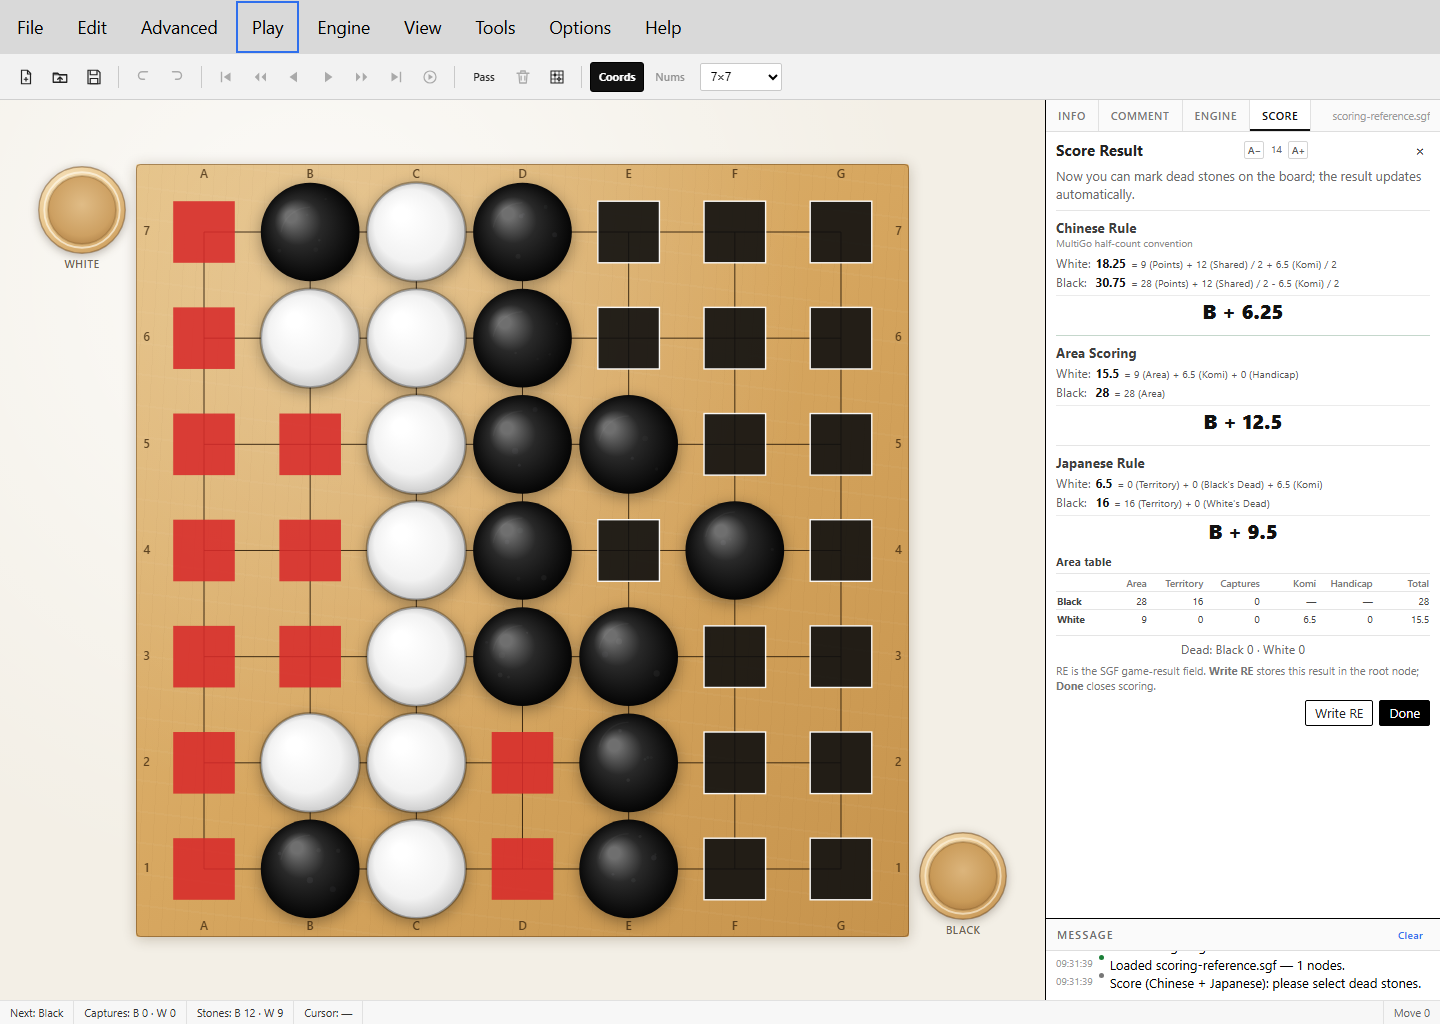
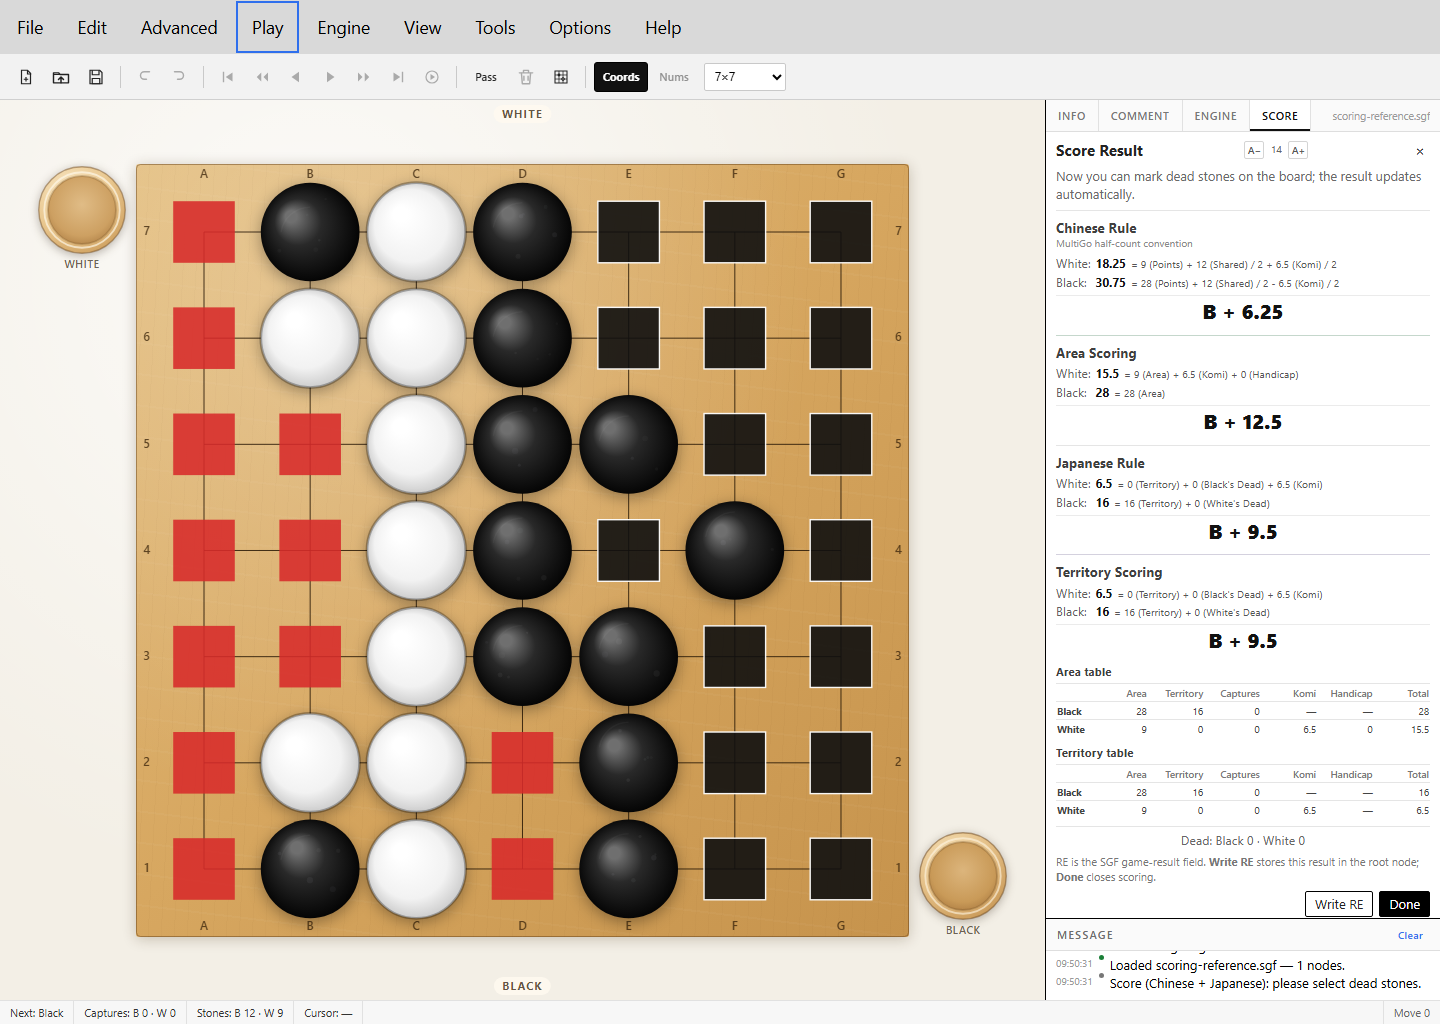
Add territory study views, default seating and dark bowls

diff --git a/src/renderer.js b/src/renderer.js
@@ -214,6 +214,13 @@
       blackFormula: $('#count-jp-black-formula'),
       result: $('#count-jp-result'),
     },
+    territory: {
+      whiteTotal: $('#count-territory-white-total'),
+      whiteFormula: $('#count-territory-white-formula'),
+      blackTotal: $('#count-territory-black-total'),
+      blackFormula: $('#count-territory-black-formula'),
+      result: $('#count-territory-result'),
+    },
   };
   const countTable = {
     blackArea: $('#count-table-black-area'),
@@ -227,6 +234,19 @@
     whiteHandicap: $('#count-table-white-handicap'),
     whiteTotal: $('#count-table-white-total'),
   };
+  const countTerritoryTable = {
+    blackArea: $('#count-territory-table-black-area'),
+    blackTerritory: $('#count-territory-table-black-territory'),
+    blackCaptures: $('#count-territory-table-black-captures'),
+    blackTotal: $('#count-territory-table-black-total'),
+    whiteArea: $('#count-territory-table-white-area'),
+    whiteTerritory: $('#count-territory-table-white-territory'),
+    whiteCaptures: $('#count-territory-table-white-captures'),
+    whiteKomi: $('#count-territory-table-white-komi'),
+    whiteTotal: $('#count-territory-table-white-total'),
+  };
+  const seatTop = $('#seat-top');
+  const seatBottom = $('#seat-bottom');
   const bowlBlack = $('#bowl-black');
   const bowlWhite = $('#bowl-white');
   const bowlBlackStones = $('#bowl-black-stones');
@@ -671,8 +691,9 @@
     'Now you can mark dead stones on the board; the result updates automatically.': '现在可以在棋盘上标记死子，结果会自动更新。',
     Japanese: '日本规则', Chinese: '中国规则',
     'Chinese Rule': '中国规则', 'Japanese Rule': '日本规则',
-    'Area Scoring': '面积计分', 'MultiGo half-count convention': 'MultiGo 半计分制',
-    'Area table': '面积表', Area: '面积', Total: '总计',
+    'Area Scoring': '面积计分', 'Territory Scoring': '目数计分',
+    'MultiGo half-count convention': 'MultiGo 半计分制',
+    'Area table': '面积表', 'Territory table': '目数表', Area: '面积', Total: '总计',
     'Black territory': '黑方领地', 'White territory': '白方领地',
     'Black prisoners': '黑方提子', 'White prisoners': '白方提子',
     'Black stones': '黑方棋子', 'White stones': '白方棋子',
@@ -861,9 +882,18 @@
     };
   }
 
+  function resetPlayerViewForNewGame() {
+    settings.boardRotation = 0;
+    settings.boardFlipH = false;
+    settings.boardFlipV = false;
+    settings.blackAtBottom = true;
+    saveSettings();
+  }
+
   function startGame(size, options = {}) {
     if (countState.active) exitCount();
     stopAutoPlay();
+    resetPlayerViewForNewGame();
     let width;
     let height;
     if (size && typeof size === 'object') {
@@ -1511,7 +1541,14 @@
     }
   }
 
+  function updateSeatLabels() {
+    const blackAtBottom = settings.blackAtBottom !== false;
+    if (seatBottom) seatBottom.textContent = (blackAtBottom ? t('Black') : t('White')).toUpperCase();
+    if (seatTop) seatTop.textContent = (blackAtBottom ? t('White') : t('Black')).toUpperCase();
+  }
+
   function updateBowls() {
+    updateSeatLabels();
     // Bowls are live during play (Japanese rules) and while counting; the
     // scoring card only adds dead stones to the prisoner totals.
     const rules = countState.active ? countState.rules : gameRules();
@@ -1621,6 +1658,16 @@
     if (countTable.whiteHandicap) countTable.whiteHandicap.textContent = points(result.handicap);
     if (countTable.blackTotal) countTable.blackTotal.textContent = points(result.areaBlackScore);
     if (countTable.whiteTotal) countTable.whiteTotal.textContent = points(result.areaWhiteScore);
+
+    if (countTerritoryTable.blackArea) countTerritoryTable.blackArea.textContent = points(result.blackPoints);
+    if (countTerritoryTable.whiteArea) countTerritoryTable.whiteArea.textContent = points(result.whitePoints);
+    if (countTerritoryTable.blackTerritory) countTerritoryTable.blackTerritory.textContent = points(result.blackTerritory);
+    if (countTerritoryTable.whiteTerritory) countTerritoryTable.whiteTerritory.textContent = points(result.whiteTerritory);
+    if (countTerritoryTable.blackCaptures) countTerritoryTable.blackCaptures.textContent = points(result.blackPrisoners);
+    if (countTerritoryTable.whiteCaptures) countTerritoryTable.whiteCaptures.textContent = points(result.whitePrisoners);
+    if (countTerritoryTable.whiteKomi) countTerritoryTable.whiteKomi.textContent = points(result.komi);
+    if (countTerritoryTable.blackTotal) countTerritoryTable.blackTotal.textContent = points(result.blackTerritory + result.blackPrisoners);
+    if (countTerritoryTable.whiteTotal) countTerritoryTable.whiteTotal.textContent = points(result.whiteTerritory + result.whitePrisoners + result.komi);
   }
 
   function updateCountPanel() {
@@ -1637,6 +1684,7 @@
     updateScoreBlock('chinese', result.chinese);
     updateScoreBlock('area', result.chinese);
     updateScoreBlock('japanese', result.japanese);
+    updateScoreBlock('territory', result.japanese);
     updateCountTable(result.chinese);
     const japanese = result.japanese;
     if (countDeadSummary) {
@@ -2240,6 +2288,7 @@
     boardSelectionContext.setTransform(dpr, 0, 0, dpr, 0, 0);
     drawBoard();
     positionBowls();
+    updateSeatLabels();
   }
 
   function scheduleBoardDraw() {
@@ -4593,6 +4642,7 @@
     catch (error) { log(`Could not parse ${source}: ${error.message}`, 'error'); return false; }
     if (!roots.length) { log('The SGF contains no games.', 'error'); return false; }
     if (roots.length > 1) log('Only the first game in the SGF collection was loaded.', 'warn');
+    resetPlayerViewForNewGame();
     stopAutoPlay();
     browserSaveHandle = null;
     try { tree = new S.GameTree({ root: roots[0], getId, merger: S.nodeMerger }); }

diff --git a/src/index.html b/src/index.html
@@ -562,6 +562,8 @@
 
     <main class="workspace" id="workspace">
       <section class="pane pane-board" id="pane-board" aria-label="Go board">
+        <div class="seat-label seat-top" id="seat-top">WHITE</div>
+        <div class="seat-label seat-bottom" id="seat-bottom">BLACK</div>
         <div class="bowl bowl-black" id="bowl-black" hidden aria-hidden="true">
           <svg class="bowl-art" viewBox="0 0 100 100" focusable="false">
             <defs>
@@ -788,6 +790,20 @@
                 </div>
                 <div class="count-rule-result" id="count-jp-result">—</div>
               </section>
+              <section class="count-rule count-territory-rule" data-rule="territory">
+                <div class="count-rule-title">Territory Scoring</div>
+                <div class="count-score-line">
+                  <span class="count-side">White:</span>
+                  <strong class="count-total" id="count-territory-white-total">—</strong>
+                  <span class="count-equation" id="count-territory-white-formula"></span>
+                </div>
+                <div class="count-score-line">
+                  <span class="count-side">Black:</span>
+                  <strong class="count-total" id="count-territory-black-total">—</strong>
+                  <span class="count-equation" id="count-territory-black-formula"></span>
+                </div>
+                <div class="count-rule-result" id="count-territory-result">—</div>
+              </section>
               <div class="count-table-title">Area table</div>
               <table class="count-table">
                 <thead>
@@ -811,6 +827,32 @@
                     <td id="count-table-white-komi">—</td>
                     <td id="count-table-white-handicap">—</td>
                     <td id="count-table-white-total">—</td>
+                  </tr>
+                </tbody>
+              </table>
+              <div class="count-table-title">Territory table</div>
+              <table class="count-table">
+                <thead>
+                  <tr><th></th><th>Area</th><th>Territory</th><th>Captures</th><th>Komi</th><th>Handicap</th><th>Total</th></tr>
+                </thead>
+                <tbody>
+                  <tr>
+                    <th>Black</th>
+                    <td id="count-territory-table-black-area">—</td>
+                    <td id="count-territory-table-black-territory">—</td>
+                    <td id="count-territory-table-black-captures">—</td>
+                    <td>—</td>
+                    <td>—</td>
+                    <td id="count-territory-table-black-total">—</td>
+                  </tr>
+                  <tr>
+                    <th>White</th>
+                    <td id="count-territory-table-white-area">—</td>
+                    <td id="count-territory-table-white-territory">—</td>
+                    <td id="count-territory-table-white-captures">—</td>
+                    <td id="count-territory-table-white-komi">—</td>
+                    <td>—</td>
+                    <td id="count-territory-table-white-total">—</td>
                   </tr>
                 </tbody>
               </table>

diff --git a/src/themes/dark.css b/src/themes/dark.css
@@ -26,3 +26,47 @@
   --overlay-backer: rgba(28, 17, 12, 0.82);
   --overlay-halo: rgba(20, 12, 8, 0.86);
 }
+
+/* The captured-stone bowls use the same old-rosewood family as the dark goban
+   instead of the light kaya bowls. */
+.theme-dark #bowl-wood-black stop:nth-child(1),
+.theme-dark #bowl-wood-white stop:nth-child(1) {
+  stop-color: #4a2d1f;
+}
+
+.theme-dark #bowl-wood-black stop:nth-child(2),
+.theme-dark #bowl-wood-white stop:nth-child(2) {
+  stop-color: #38231a;
+}
+
+.theme-dark #bowl-wood-black stop:nth-child(3),
+.theme-dark #bowl-wood-white stop:nth-child(3) {
+  stop-color: #25140e;
+}
+
+.theme-dark #bowl-cavity-black stop:nth-child(1),
+.theme-dark #bowl-cavity-white stop:nth-child(1) {
+  stop-color: #2f1c13;
+}
+
+.theme-dark #bowl-cavity-black stop:nth-child(2),
+.theme-dark #bowl-cavity-white stop:nth-child(2) {
+  stop-color: #26150e;
+}
+
+.theme-dark #bowl-cavity-black stop:nth-child(3),
+.theme-dark #bowl-cavity-white stop:nth-child(3) {
+  stop-color: #1b0e08;
+}
+
+.theme-dark .bowl-art > circle {
+  stroke: rgba(235, 181, 103, 0.42);
+}
+
+.theme-dark .bowl-art > circle:nth-of-type(2) {
+  stroke: rgba(238, 205, 160, 0.25);
+}
+
+.theme-dark .bowl-label {
+  color: rgba(238, 205, 160, 0.82);
+}

diff --git a/src/styles.css b/src/styles.css
@@ -2364,6 +2364,34 @@ kbd {
 
 /* Counting ------------------------------------------------------------- */
 
+.seat-label {
+  position: absolute;
+  left: 50%;
+  z-index: 5;
+  padding: 2px 8px;
+  border-radius: 9px;
+  background: rgba(255, 250, 240, 0.78);
+  color: rgba(58, 40, 20, 0.78);
+  font-size: 10.5px;
+  font-weight: 700;
+  letter-spacing: 0.14em;
+  pointer-events: none;
+  transform: translateX(-50%);
+}
+
+.seat-top {
+  top: 5px;
+}
+
+.seat-bottom {
+  bottom: 5px;
+}
+
+.theme-dark .seat-label {
+  background: rgba(30, 18, 12, 0.78);
+  color: rgba(238, 205, 160, 0.85);
+}
+
 .bowl {
   /* Positioned by renderer.js relative to the board: the player sitting at the
      bottom gets the lower-right bowl, the other player gets the upper-left one. */
@@ -2506,6 +2534,10 @@ kbd {
 
 .count-area-rule {
   border-top-color: rgba(46, 112, 72, 0.28);
+}
+
+.count-territory-rule {
+  border-top-color: rgba(99, 88, 138, 0.28);
 }
 
 .count-table-title {

diff --git a/README.md b/README.md
@@ -45,15 +45,16 @@ Released 2026-11-06. The Windows artifacts are `MultiGo-Neo-1.1.4-setup.exe` and
   overlay and Engine tab, and drive the engine from the docked GTP console. See
   [GTP engines](#gtp-engines).
 - **Estimate and Score** — a docked **Score** tab beside Info/Comment/Engine shows Chinese,
-  standard **Area Scoring** and Japanese results together, plus an Area/Territory/Captures/
-  Komi/Handicap table. Compact black/white bordered squares mark ownership, red squares mark
-  shared points, and green squares mark dead stones. The Score text has its own 12–36 px
-  A−/A+ control. **Play → Estimate** pre-marks dead stones; **Play → Score** starts manual.
-  See [Estimate and Score](#estimate-and-score).
+  standard **Area Scoring**, Japanese and **Territory Scoring**, plus Area and Territory audit
+  tables. Compact black/white bordered squares mark ownership, red squares mark shared points,
+  and green squares mark dead stones. Shell stones are clean, with no grey texture dot. The
+  Score text has its own 12–36 px A−/A+ control. **Play → Estimate** pre-marks dead stones;
+  **Play → Score** starts manual. See [Estimate and Score](#estimate-and-score).
 - **Two consecutive passes** end the game and offer to count the result.
 - **Captured-stone bowls** stay visible during Japanese-rules play: Black sits at the bottom by
-  default, so the black bowl is lower-right and White's is upper-left. **View → Swap Player
-  Sides** reverses the seating.
+  default, so the black bowl is lower-right and White's is upper-left. **BLACK** and **WHITE**
+  seat labels are always shown, and the dark theme gives the bowls the same rosewood palette as
+  the goban. **View → Swap Player Sides** reverses the seating.
 - **Small boards (8×8 and below)** keep edge stones and coordinate labels inside the canvas.
 
 ### Version 1.1.2
@@ -556,9 +557,9 @@ way, and the editor does the arithmetic.
   black border, borderless red **shared/dame** squares, and green dead-stone squares — all
   the same size so they fit inside a stone.
 - **Docked Score tab**: the Score panel lives beside **Info / Comment / Engine** in the right
-  column, not as a floating board popup. It shows Chinese, standard Area Scoring and Japanese
-  results simultaneously, with no rule selector. While a scoring session is open the Score
-  panel takes the full right column; the Game Tree returns when scoring closes.
+  column, not as a floating board popup. It shows Chinese, standard Area Scoring, Japanese and
+  Territory Scoring results simultaneously, with no rule selector. While a scoring session is
+  open the Score panel takes the full right column; the Game Tree returns when scoring closes.
 - **Chinese Rule** counts alive stones + territory, adds `shared / 2`, and applies `+komi/2` to
   White and `−komi/2` to Black. Captures are not counted. This is MultiGo's half-count
   convention: the displayed result halves the area difference (`B+6.25` for a 30.75–18.25
@@ -569,16 +570,23 @@ way, and the editor does the arithmetic.
   and `W+1.5` after.
 - **Japanese** counts territory + prisoners/dead stones + komi for White; shared points are not
   scored. The card labels the prisoner terms **Black's Dead** / **White's Dead**.
-- **Area table** shows Area, Territory, Captures, Komi, Handicap and area Total for both sides.
-  `HA` is read into the handicap term for Area Scoring only (territory scoring, like Sabaki,
-  does not add it).
+- **Territory Scoring** repeats the territory calculation below Japanese Rule with its own total
+  and result, making a side-by-side study layout.
+
+- **Area table** and **Territory table** show Area, Territory, Captures, Komi, Handicap and the
+  respective total for both sides. `HA` is read into the handicap term for Area Scoring only
+  (territory scoring, like Sabaki, does not add it).
 - **Write RE** writes the **standard area result** for `RU[Chinese]` and the normal territory
   result for `RU[Japanese]` into the SGF’s `RE` (game result) property on the root node. It
   updates the in-memory game/title but does **not** save the file; use File → Save afterwards.
   **Done** or `Esc` closes scoring. The panel shows this explanation next to the button.
 - **Captured-stone bowls**: by default Black sits at the bottom, so the black bowl is at the
   **lower right** of the goban and the white bowl at the **upper left**. **View → Swap Player
-  Sides** flips the seating and therefore the bowls. Bowls stay beside the board when the pane
+  Sides** flips the seating and therefore the bowls. The words **BLACK** and **WHITE** are
+  shown at the bottom and top of the board pane so the seating is always legible, even when the
+  bowls are hidden. New games and opened SGFs reset to Black at the bottom and the default
+  unrotated, unflipped orientation; the bowls follow later horizontal/vertical flips but not
+  rotation. Bowls stay beside the board when the pane
   resizes and fall back to the board corners when there is no outer room. They are drawn
   **top-down**: captured stones are stacked in the bowl (White's stones in the black bowl,
   Black's in the white one), with 3D shading and shadows. No number is printed in the bowl — the
@@ -604,6 +612,8 @@ it gets a group wrong.
 ![Reference 7×7 scoring before dead stones: Chinese half-count, Area Scoring, Japanese territory and the Area table](preview/preview-scoring-reference.png)
 
 ![After marking B7 and B1 dead: green dead-stone squares, white control of the vacated region, and all scores updated](preview/preview-scoring-reference-dead.png)
+
+![Dark theme: the bowls and seat labels use the goban's rosewood/gold palette](preview/preview-scoring-dark.png)
 
 ![Play > Estimate: the sealed white stone is estimated dead and counted](preview/preview-estimate.png)
 
@@ -638,7 +648,8 @@ images below show the same **13×13** position at 1440×1024.
 - **Flat** — a solid board colour with no grain.
 - **Dark** — old rosewood with a golden-brown grid and warm stone highlights, based on the
   old-board photographs in `study/design/old-board/`; the stones get a glassy top-left
-  specular cap and a warm lower rim so black stones separate from the dark wood.
+  specular cap and a warm lower rim so black stones separate from the dark wood. Captured-stone
+  bowls and their labels use the same rosewood/gold palette.
 - **Paper** — light diagram paper, thin ink lines and flat printed stones (no gradient,
   drop shadow or highlight), for print-like review diagrams.
 
@@ -887,17 +898,23 @@ layout and a 1100×1700 pass for the embed page:
   (body, bowl click and noise); repeated with three and eight stones and confirmed 24
   oscillators, eight stones in the bowl, and randomised 28–46 ms gaps with varying pitches;
 - chose **Play → Estimate** and confirmed it entered Estimate mode with the sealed white stone
-  already marked dead and all three results shown; **Play → Score** opened with no dead stones;
+  already marked dead and all four results shown; **Play → Score** opened with no dead stones;
 - clicked the lone white stone inside Black's area and confirmed its green dead marker, the
   score updates in all rule blocks, and the black bowl showed **1**;
 - confirmed the 7×7 Area Scoring result moves from `B+12.5` before dead stones to `W+1.5`
   after, while the Chinese half-count stays `B+6.25` / `W+0.75`;
 - loaded the same position with `HA[2]` and `KM[0.5]` and confirmed the Area table shows
   handicap **2**, White total **11.5** and Area result `B+16.5`;
+- confirmed **Territory Scoring** is shown below Japanese Rule and the Territory table sits
+  directly below the Area table, with White totals **6.5** before dead stones and **20.5** after;
 - confirmed the compact scoring markers: black squares with white borders, white squares with
   black borders, borderless red shared points and green dead stones;
-- changed the Score tab display font from 12 px to 14 px, confirmed the app stayed clean, and
-  confirmed the Comment and Score font preferences are independent;
+- changed the Score tab display font from 12 px to 14 px, then 16 px, and confirmed the A−/A+
+  boxes stayed 20×18 px with no overlap; the Comment and Score font preferences are independent;
+- confirmed new games and opened SGFs reset rotation/flip to zero and seating to Black at the
+  bottom, with **BLACK**/**WHITE** labels at the bottom/top of the board pane;
+- switched to **Dark** and confirmed the bowl wood stop colour is the goban rosewood
+  `rgb(74, 45, 31)` and the bowl labels use the light gold board-label colour;
 - scoring unit tests reproduce the MultiGo reference exactly: Chinese **30.75 / 18.25**
   before dead marking, **23.75 / 25.25** after; Japanese **17 / 6.5** before and
   **17 / 20.5** after, with results `B+6.25`, `W+0.75`, `B+10.5`, `W+3.5`;
